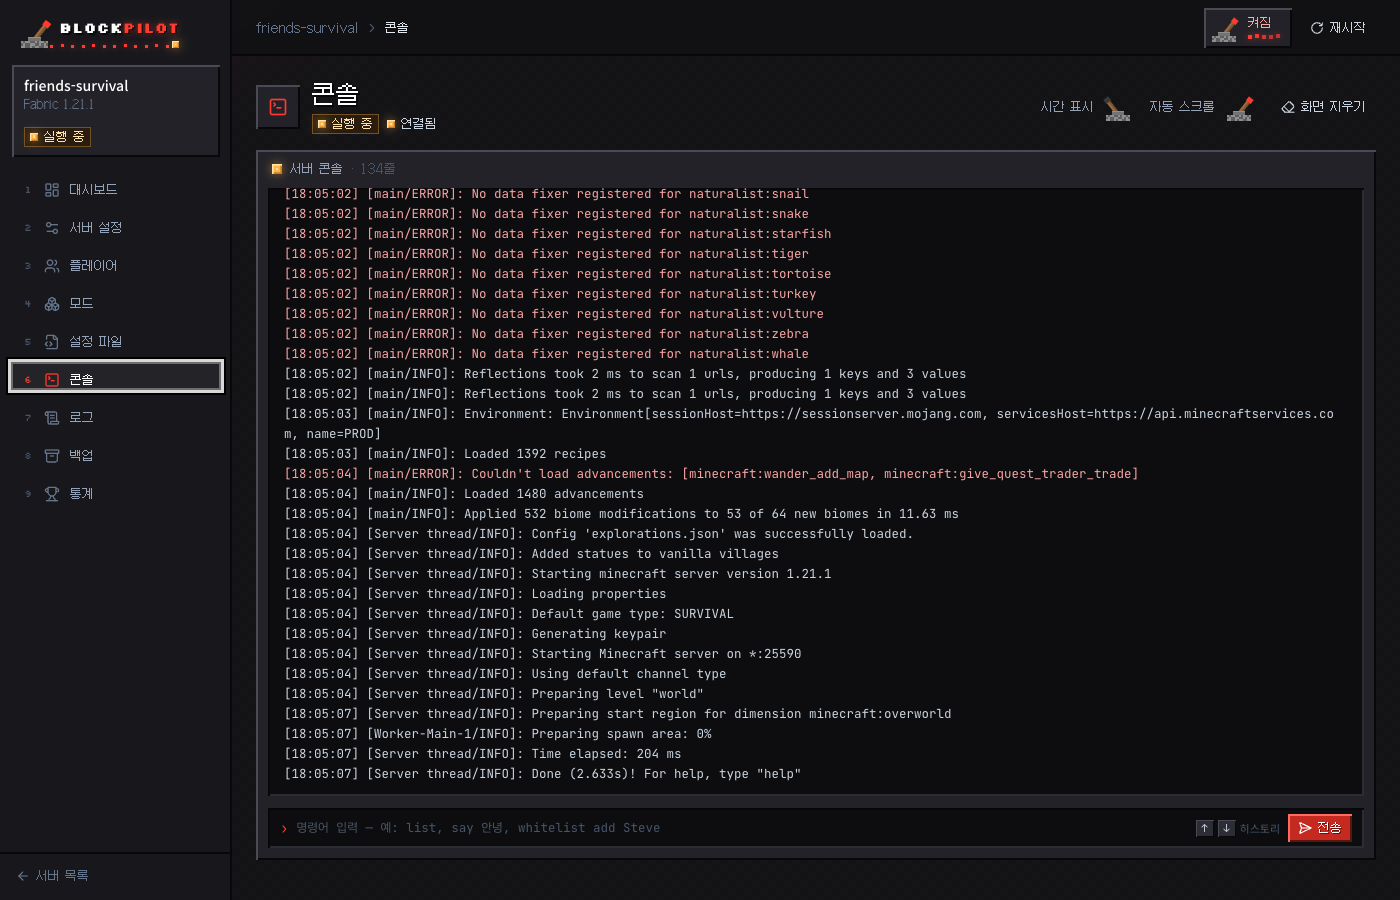
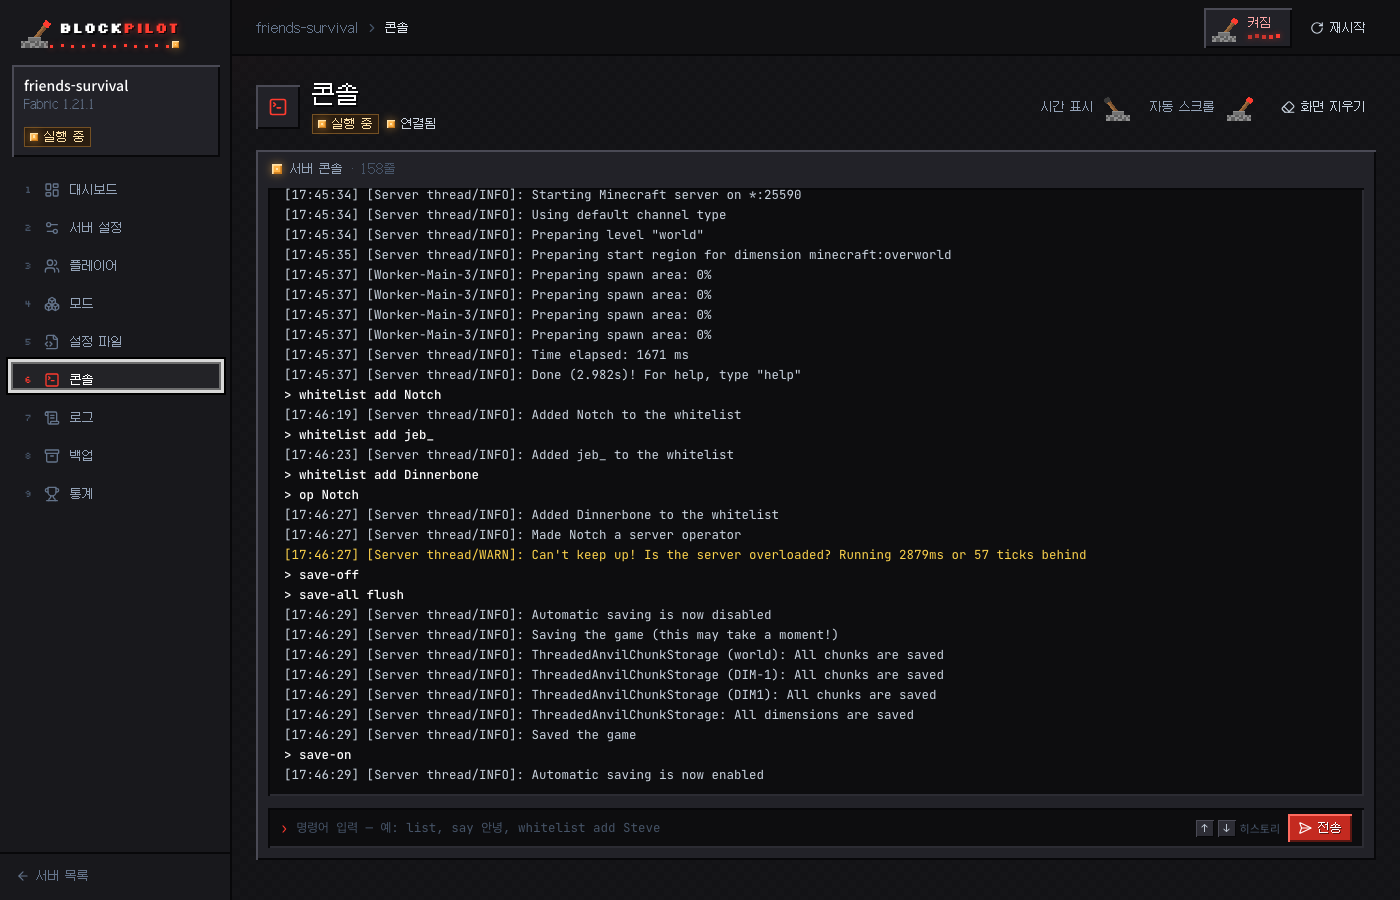
README: 스크린샷 전부 최신판으로, 포트포워딩 없이 초대 사용법을 4단계로
- 스크린샷 18장을 1.3.0 화면으로 다시 찍음 (실제 서버 실행·실제 P2P 연결, 모킹 없음). P2P 는 호스트 켜기 → 친구 접속 → 승인 → 연결까지 5장
- P2P 절을 "1 호스트 초대 켜기 · 2 친구 초대코드 접속 · 3 호스트 승인 · 4 마인크래프트 접속" 순서로 다시 씀
- 찍으면서 발견한 것 수정: 사이드바 없는 짧은 페이지 바닥 무늬가 끝까지 안 채워지던 것, 로그 목록이 수정 시각이 같으면 뒤섞이던 것, 친구 접속 카드의 인터페이스 이름이 가려지던 것

Changed region(s): [[0.1843, 0.1867, 0.9521, 0.8711]]

diff --git a/packages/server/src/services/logs.ts b/packages/server/src/services/logs.ts
@@ -29,7 +29,8 @@ export async function listLogs(serverDir: string): Promise<LogFileEntry[]> {
     }
   }
   // latest.log 먼저, 그 다음 최신순
-  return out.sort((a, b) => (a.name === "latest.log" ? -1 : b.name === "latest.log" ? 1 : b.mtime.localeCompare(a.mtime)));
+  // latest.log 가 맨 위, 그다음 수정 시각 최신순. 시각이 같으면(폴더를 복사한 경우 등) 파일명의 날짜·번호로
+  return out.sort((a, b) => (a.name === "latest.log" ? -1 : b.name === "latest.log" ? 1 : b.mtime.localeCompare(a.mtime) || b.name.localeCompare(a.name, undefined, { numeric: true })));
 }
 
 export async function readLog(serverDir: string, kind: "log" | "crash", name: string, tail = MAX_LINES): Promise<LogFileContent> {

diff --git a/packages/web/src/components/ConnectCard.tsx b/packages/web/src/components/ConnectCard.tsx
@@ -97,12 +97,12 @@ export function ConnectCard({ serverId, state }: { serverId: string; state: Proc
 
 function AddressRow({ text, note, onCopy }: { text: string; note: string; onCopy: (t: string) => void }) {
   return (
-    <div className="flex items-center gap-2">
+    <div className="flex flex-wrap items-center gap-2">
       <code className="well px-2.5 py-1 font-mono text-[13px] text-white">{text}</code>
       <Button size="sm" variant="ghost" icon={Copy} onClick={() => onCopy(text)} aria-label={`${text} 복사`}>
         복사
       </Button>
-      <span className="text-[11px] text-slate-500">{note}</span>
+      <span className="whitespace-nowrap text-[11px] text-slate-500">{note}</span>
     </div>
   );
 }

diff --git a/packages/web/src/index.css b/packages/web/src/index.css
@@ -26,6 +26,8 @@ html {
 
 body {
   @apply text-slate-200 font-sans antialiased;
+  /* 사이드바 없는 짧은 페이지(/join 등)에서도 바닥 무늬가 화면 끝까지 */
+  min-height: 100vh;
   /* 딥슬레이트 바닥: 아주 옅은 16px 체크 무늬 + 레드스톤 불빛 */
   background:
     radial-gradient(800px 420px at 0% -10%, rgba(255, 59, 47, 0.08), transparent 60%),

diff --git a/README.md b/README.md
@@ -219,25 +219,35 @@ Paper · Forge 는 Minecraft **1.18 이상**, NeoForge 는 **1.20.2 이상**만 
 
 ### 포트포워딩 없이 친구 초대 (P2P)
 
-공유기 설정을 못 하거나(통신사 CGNAT, 기숙사·회사망) 하기 싫을 때, 라드민 VPN 처럼 **친구끼리 직접 연결**해서 들어오게 할 수 있어요. 중계 서버도, 계정도, 가상 랜카드도 없어요.
+공유기 설정을 못 하거나(통신사 CGNAT, 기숙사·회사망) 하기 싫을 때, 라드민 VPN 처럼 **친구끼리 직접 연결**해서 들어오게 할 수 있어요. 중계 서버도, 계정도, 가상 랜카드도 없어요. 준비물은 둘뿐이에요. 호스트는 BlockPilot 으로 서버를 켜 두고, 친구도 BlockPilot 을 받아서 켜요(친구는 서버를 만들 필요가 없어요).
 
-**호스트(서버 주인)**: 대시보드 → **포트포워딩 없이 초대** 카드의 레버를 켜고, 초대코드를 **복사**해 친구에게 보내요. 친구가 들어오려 하면 카드에 **승인 요청**이 떠요. 승인하면 그 친구는 다음부터 자동으로 들어와요. 끊기·차단·승인 취소도 여기서 해요.
-**친구(참가)**: BlockPilot 을 받아 켠 뒤 첫 화면 → **친구 서버에 접속** → 초대코드를 붙여 넣고 **접속**. 호스트가 승인하면 "연결됐어요" 와 함께 주소(`localhost` 또는 `localhost:포트`)가 떠요. 마인크래프트 → 멀티플레이 → 직접 접속에 그 주소를 넣으면 끝이에요.
+#### 1. 호스트: 초대 켜고 코드 복사
 
-<table>
-  <tr>
-    <td><img src="docs/screenshots/18-invite.png" alt="호스트: 포트포워딩 없이 초대 카드"></td>
-  </tr>
-  <tr>
-    <td align="center"><sub>호스트 대시보드 — 초대코드, 승인 기다리는 친구, 접속 중</sub></td>
-  </tr>
-  <tr>
-    <td><img src="docs/screenshots/19-join.png" alt="친구: 연결됨"></td>
-  </tr>
-  <tr>
-    <td align="center"><sub>친구 쪽 — 연결되면 마인크래프트에 넣을 주소가 떠요</sub></td>
-  </tr>
-</table>
+서버를 켠 뒤 대시보드의 **포트포워딩 없이 초대** 카드에서 레버를 올려요. 초대코드(4자씩 20묶음)가 뜨면 **복사**해서 친구에게 보내요. 레버는 한 번만 올려 두면 돼요. 서버를 끄면 같이 꺼지고 다시 켜면 같이 켜져요.
+
+<img src="docs/screenshots/18-invite-code.png" alt="호스트: 초대 켜고 초대코드 복사">
+
+#### 2. 친구: 초대코드로 접속
+
+친구는 BlockPilot 첫 화면 → **친구 서버에 접속** 에서 받은 코드를 붙여 넣고 **접속**을 눌러요. 하이픈·공백이 섞여 있어도 돼요. 이름 칸은 이 초대를 뭐라고 부를지 적는 선택 항목이에요.
+
+<img src="docs/screenshots/19-join-enter.png" alt="친구: 초대코드 붙여 넣기">
+
+#### 3. 호스트: 승인
+
+처음 들어오는 친구는 호스트 카드에 **승인 기다리는 친구**로 떠요. 이름을 붙여 **승인**하면 끝. 한 번 승인한 친구는 다음부터 자동으로 들어와요.
+
+<img src="docs/screenshots/20-invite-pending.png" alt="호스트: 승인 요청">
+
+#### 4. 친구: 마인크래프트에서 접속
+
+승인되면 친구 화면에 **연결됐어요**와 함께 주소가 떠요(`localhost`, 또는 `localhost:포트`). 마인크래프트 → 멀티플레이 → **직접 연결**에 그 주소를 넣으면 들어가져요. 호스트 IP 를 알 필요도, 입력할 필요도 없어요. 친구 PC 의 BlockPilot 이 자기 컴퓨터 안에 입구를 열고, 거기로 들어온 연결을 암호화된 P2P 통로로 호스트까지 실어 나르기 때문이에요.
+
+<img src="docs/screenshots/21-join-connected.png" alt="친구: 연결됨">
+
+호스트 카드에는 접속 중인 친구가 보여요. 여기서 **끊기**, **차단**, 승인 취소를 할 수 있고, 초대코드가 새어 나갔다 싶으면 **다시 만들기**로 옛 코드를 바로 무효화할 수 있어요(접속 중인 친구는 안 끊겨요).
+
+<img src="docs/screenshots/22-invite-connected.png" alt="호스트: 접속 중인 친구 관리">
 
 어떻게 동작하나요
 
